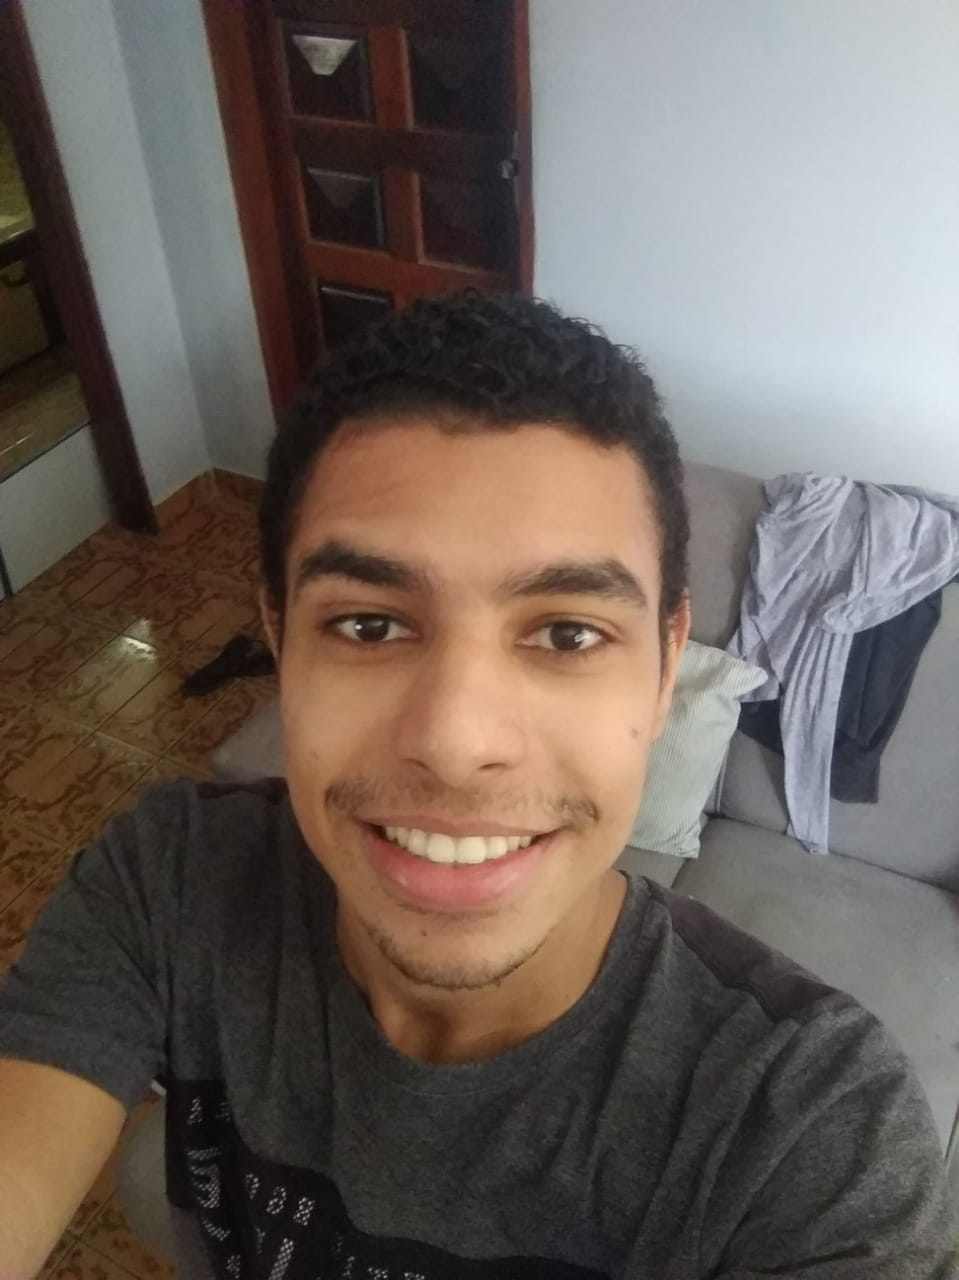
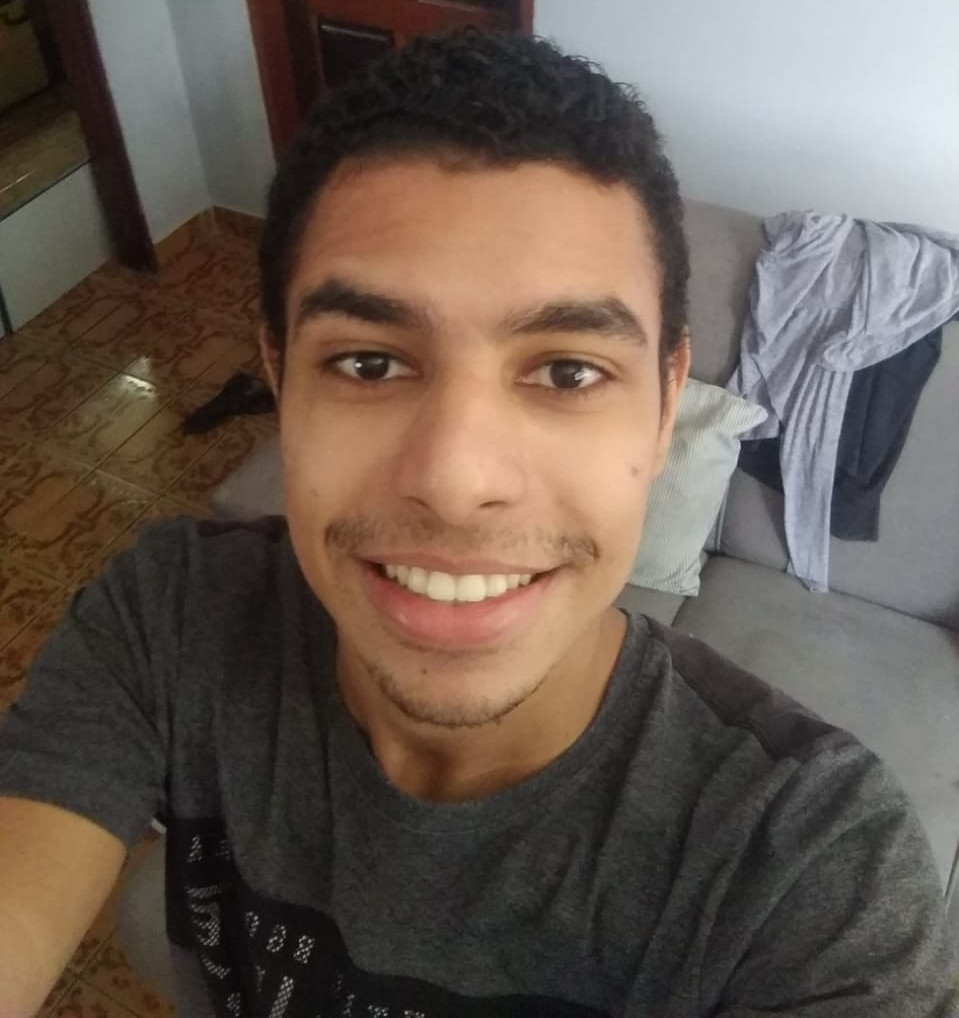
adicionando display flex no body e hover na imagem

diff --git a/index.html b/index.html
@@ -1,5 +1,5 @@
 <!DOCTYPE html>
-<html lang="en">
+<html lang="pt-br">
 <head>
     <meta charset="UTF-8">
     <meta http-equiv="X-UA-Compatible" content="IE=edge">
@@ -8,11 +8,11 @@
     <link rel="preconnect" href="https://fonts.googleapis.com">
     <link rel="preconnect" href="https://fonts.gstatic.com" crossorigin>
     <link href="https://fonts.googleapis.com/css2?family=Rajdhani:wght@300;400;500;600;700&display=swap" rel="stylesheet">
-    <title>Document</title>
+    <title>Project Lesson Learning, by Adelson</title>
 </head>
 <body>
     <header id="cabecalho">
-        <h1 id="titulo">Projeto Lesson Learning</h1>
+        <h1 id="titulo">Project Lesson Learning</h1>
         <nav>
             <ul>
                 <li><a href="https://www.instagram.com/adelson.jleon/" target="_blank">Instagram</a></li>
@@ -22,13 +22,12 @@
         </nav>
     </header>
     <section>
-        <img src="img/me.jpeg" alt="self" id="minha_foto" width="15%" height="12%">
+        <img src="img/me.jpeg" alt="self" id="minha_foto">
         <div id="info">
             <h3>Nome: Adelson Lima</h3>
-            <h3>Idade: 23 anos</h3>
-            <h3>Cidade: São Paulo-SP</h3>
+            <h3>Ano de nascimento: 1998</h3>
+            <h3>Cidade: São Paulo</h3>
             <h3>Carreira: Desenvolvedor de software back-end</h3>
-            <a href="https://www.linkedin.com/in/adelson-lima/" target="_blank">Linkedin</a>
         </div>
     </section>
 
@@ -39,11 +38,7 @@
         <h2>Conhecimento em programação</h2>
         <p>Eu já tenho um pouco de conhecimento em programação, pois eu me formei como técnico de informática na ETEC e lá eu aprendiz programação orienteda a <s>gambiarra</s> objeto com Java e Visual Basic .NET.</p>
     </article>
-        
-    <article>
-        
-    </article>
-
+    
     <aside>
         <h2>Lições</h2>
         <ol id="licoes_aprendidas">

diff --git a/style.css b/style.css
@@ -14,17 +14,16 @@
 
 #titulo{
     margin: 15px;
+    padding-left: 90px;
     font-size: 42pt;
     font-weight: 400;
+    color: black;
     text-align: center;
     letter-spacing: 12px;
 }
 
 #cabecalho nav{
     background-color: #17202A;
-}
-
-#cabecalho ul{
     text-align: center;
 }
 
@@ -42,36 +41,56 @@
     border: 1px solid #17202A;
 }
 
-#cabecalho a:hover{
+#cabecalho a:hover {
     transition: 0.6s;
     border: 1px solid white;
     background: #1B2631;
 }
 
-body{
-    background-color: #F39C12;
+body {
+    font-size: 15pt;
+    color: white;
+    margin-top: 150px;
+    background-color: #8E44AD;
+    display: flex;
+
 }
 
-/*Informações pessoais*/
-section{
+section {
     padding: 21px;
 }
 
-img{
-    height:210px;
-    display:inline-block;
-    margin-top: 100px;
+#minha_foto {
+    cursor: pointer;
+    transition: 3s;
+    width: 222px;
+    border-radius: 100%;
 }
 
-section h3{
-    margin:3px;
+#minha_foto:hover {
+    width: 250px;
 }
 
-#info{
-    color:#fff;
-    display:inline-block;
+
+#info {
+    color: white;
+    /* display:inline-block; */
+}
+
+#info h3{
+    font-weight: 500;
+    margin: 10px;
+}
+
+article {
+    margin: 30px;
+}
+
+article p {
+    /* font-size: 18pt; */
 }
 
 aside{
-    float:right;
+    margin: 30px;
+    /* float:right; */
 }
